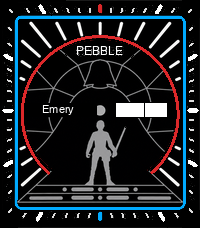
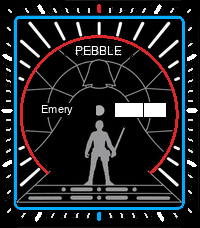
citizen-star-wars: v45 — shift face 1px left for centered alignment on watch

diff --git a/src/c/main.c b/src/c/main.c
@@ -38,7 +38,7 @@
 // Clock center estimated from image center-hole position
 // ============================================================================
 
-#define CLOCK_CX    100
+#define CLOCK_CX     99
 #define CLOCK_CY    110
 #define DIAL_Y        0   // image is already 200x228, no vertical offset
 #define HOUR_LEN     57
@@ -46,13 +46,12 @@
 #define SEC_LEN      88
 #define SEC_TAIL     12
 // Date box: compact, centered in right triangular area (52x15px)
-// x=115-167, y=102-117 — 10px clearance from right ring at x=177
-// Baked as empty box in Python; C fills + draws text on top of hands
-#define DATE_BOX_X    115
+// x=114-166, y=102-117 — shifted 1px left with full face
+#define DATE_BOX_X    114
 #define DATE_BOX_Y    102
 #define DATE_BOX_W     52
 #define DATE_BOX_H     15
-#define DATE_DIV_X    144  // divider: left cell 28px (116-143), right 22px (145-166)
+#define DATE_DIV_X    143  // divider: left cell 28px (115-142), right 22px (144-165)
 // "PEBBLE" and "Emery" are both baked into the bitmap (no C overrides needed)
 
 // ============================================================================
